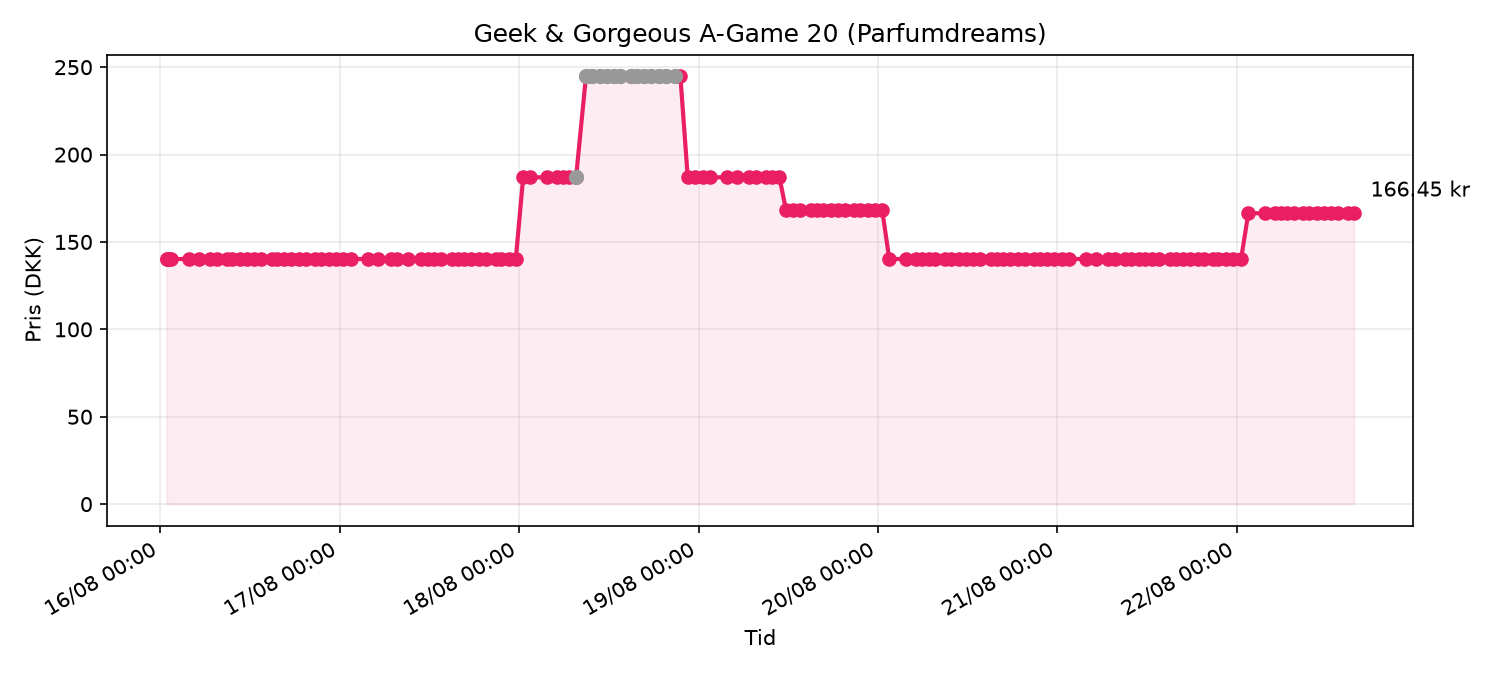
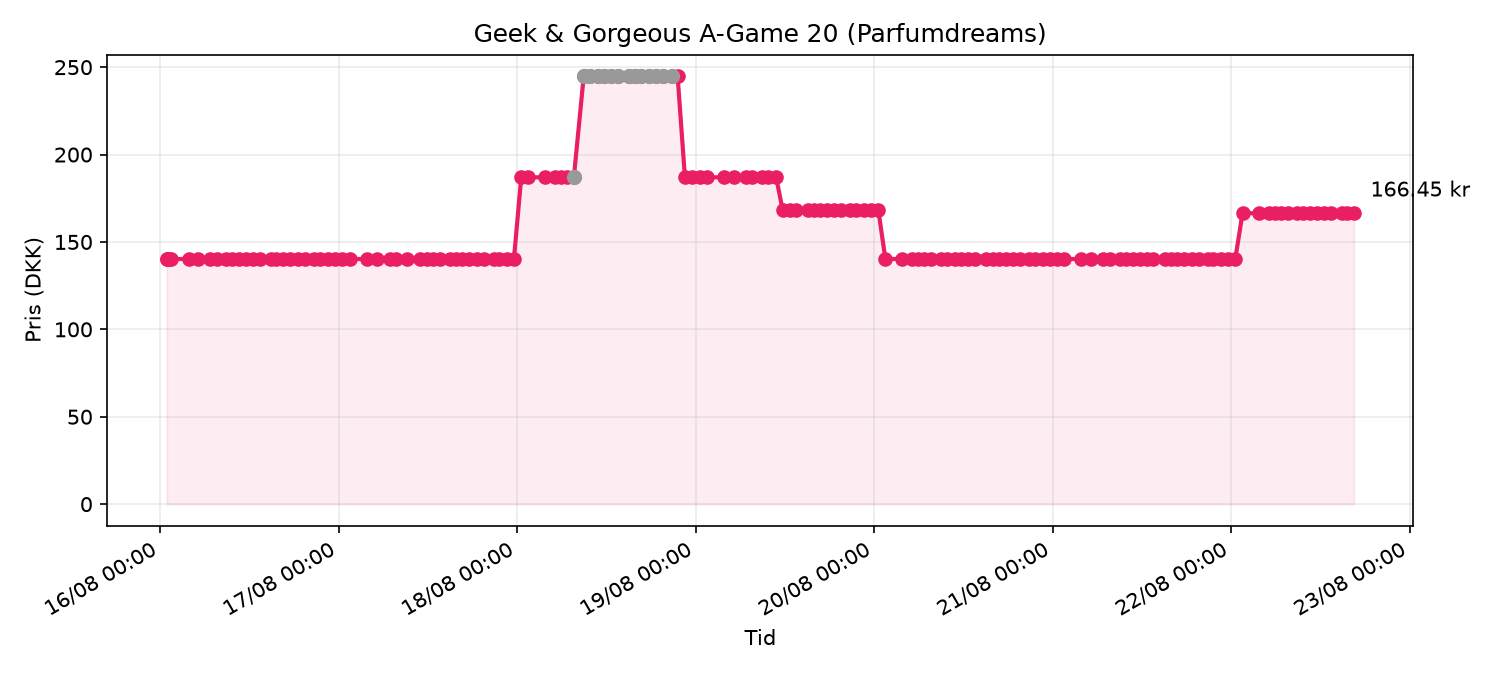
deploy: 4aea12e34edb708a6931e665b18cf205a18bbc63

diff --git a/price_chart.html b/price_chart.html
@@ -13,7 +13,7 @@
 </head>
 <body>
   <h1>Geek & Gorgeous A-Game 20 (Parfumdreams)</h1>
-  <p class="meta">Senest tjekket: 22/08/2026 15:37 · Pris: <strong>166.45 kr</strong> · på lager</p>
+  <p class="meta">Senest tjekket: 22/08/2026 16:29 · Pris: <strong>166.45 kr</strong> · på lager</p>
   
   <p><a href="https://www.parfumdreams.dk/Geek-Gorgeous/Samlinger/101-aktive-stoffer/A-Game-20-Serum/index_137083.aspx?variation=221879">Åbn produkt på Parfumdreams</a></p>
   <img src="price_chart.png" alt="Prisgraf">
